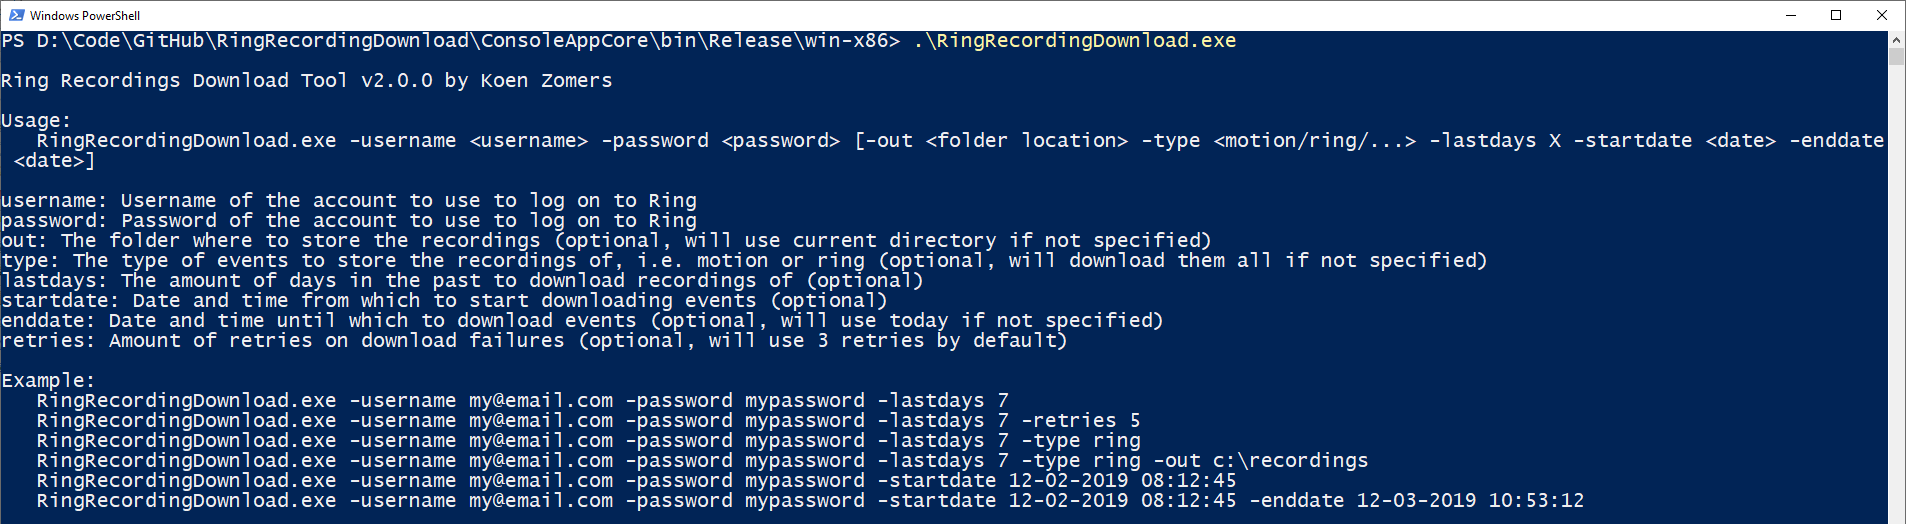
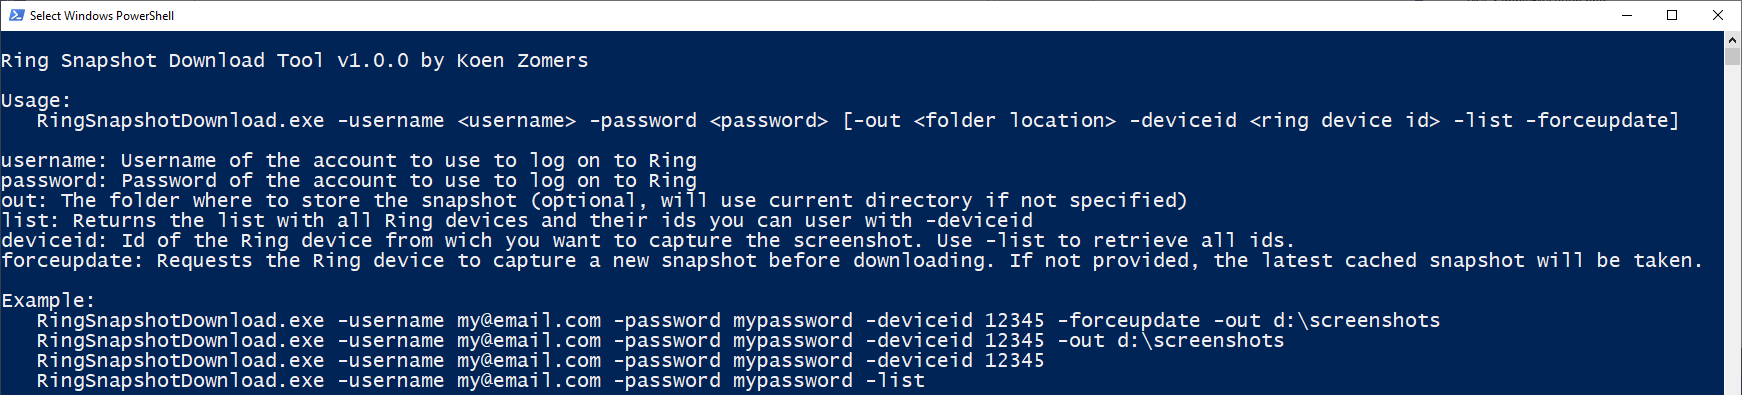
Updated documentation, added forcedupdate flag

diff --git a/ConsoleAppCore/Program.cs b/ConsoleAppCore/Program.cs
@@ -148,6 +148,12 @@ namespace KoenZomers.Ring.SnapshotDownload
                 var downloadFileName = $"{configuration.DeviceId} - {DateTime.Now:yyyy-MM-dd HH-mm-ss}.jpg";
                 var downloadFullPath = Path.Combine(configuration.OutputPath, downloadFileName);
 
+                if(configuration.ForceUpdateSnapshot)
+                {
+                    Console.WriteLine("Requesting Ring device to capture a new snapshot");
+                    await session.UpdateSnapshot(configuration.DeviceId.Value);
+                }
+
                 // Retrieve the snapshot
                 Console.WriteLine($"Downloading snapshot from Ring device with ID {configuration.DeviceId} to {downloadFullPath}");
                 await session.GetLatestSnapshot(configuration.DeviceId.Value, downloadFullPath);
@@ -193,6 +199,11 @@ namespace KoenZomers.Ring.SnapshotDownload
                 configuration.ListBots = true;
             }
 
+            if (args.Contains("-forceupdate"))
+            {
+                configuration.ForceUpdateSnapshot = true;
+            }
+
             if (args.Contains("-deviceid"))
             {
                 if (int.TryParse(args[args.IndexOf("-deviceid") + 1], out int deviceId))
@@ -210,15 +221,17 @@ namespace KoenZomers.Ring.SnapshotDownload
         private static void DisplayHelp()
         {
             Console.WriteLine("Usage:");
-            Console.WriteLine("   RingSnapshotDownload.exe -username <username> -password <password> [-out <folder location> -type <motion/ring/...> -lastdays X -startdate <date> -enddate <date>]");
+            Console.WriteLine("   RingSnapshotDownload.exe -username <username> -password <password> [-out <folder location> -deviceid <ring device id> -list -forceupdate]");
             Console.WriteLine();
             Console.WriteLine("username: Username of the account to use to log on to Ring");
             Console.WriteLine("password: Password of the account to use to log on to Ring");
             Console.WriteLine("out: The folder where to store the snapshot (optional, will use current directory if not specified)");
             Console.WriteLine("list: Returns the list with all Ring devices and their ids you can user with -deviceid");
             Console.WriteLine("deviceid: Id of the Ring device from wich you want to capture the screenshot. Use -list to retrieve all ids.");
+            Console.WriteLine("forceupdate: Requests the Ring device to capture a new snapshot before downloading. If not provided, the latest cached snapshot will be taken.");
             Console.WriteLine();
             Console.WriteLine("Example:");
+            Console.WriteLine("   RingSnapshotDownload.exe -username my@email.com -password mypassword -deviceid 12345 -forceupdate -out d:\\screenshots");
             Console.WriteLine("   RingSnapshotDownload.exe -username my@email.com -password mypassword -deviceid 12345 -out d:\\screenshots");
             Console.WriteLine("   RingSnapshotDownload.exe -username my@email.com -password mypassword -deviceid 12345");
             Console.WriteLine("   RingSnapshotDownload.exe -username my@email.com -password mypassword -list");

diff --git a/ConsoleAppCore/Configuration.cs b/ConsoleAppCore/Configuration.cs
@@ -29,5 +29,10 @@
         /// Boolean indicating if a listing of available bots should be returned
         /// </summary>
         public bool ListBots = false;
+
+        /// <summary>
+        /// Boolean indicating if a fresh snapshot should be requested from the Ring device before downloading it. If set to false, the latest cached snapshot will be used which is faster.
+        /// </summary>
+        public bool ForceUpdateSnapshot = true;
     }
 }

diff --git a/README.md b/README.md
@@ -52,6 +52,8 @@ With this tool in its current state you can:
 
 - Log on once to a two factor authentication enabled Ring account and then have it use the retrieved refresh token to run unattended on subsequent runs
 - Download the latest snapshot from your Ring device
+- List all Ring doorbells and Ring stickupcams you have available under your Ring account
+- Force the Ring device to capture a fresh snapshot
 
 ## Feedback
 
